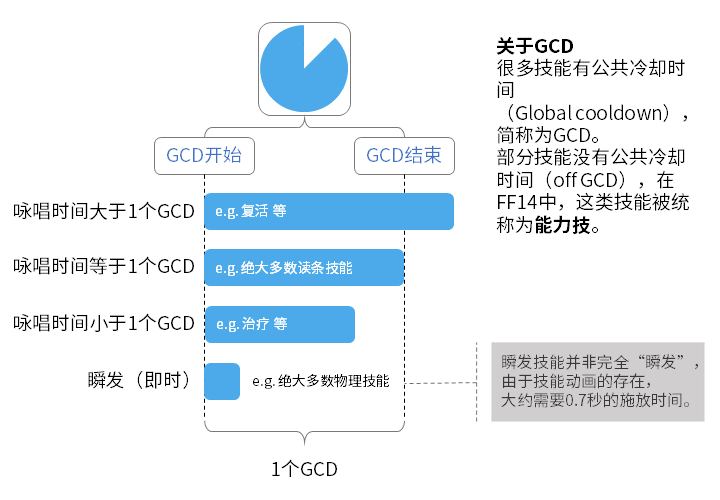
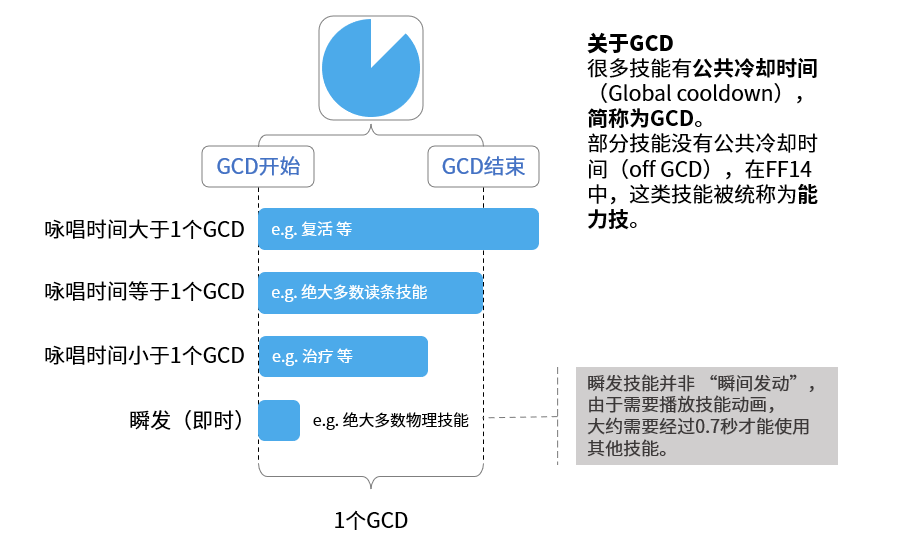
副本update

diff --git a/docs/topic/dd.md b/docs/topic/dd.md
@@ -4,13 +4,80 @@
 
 深层迷宫在低层可以为玩家的未满级职业练级，而高层迷宫则有相当高的难度，也会产出稀有的坐骑、宠物和外观。
 
-单刷死宫200层的成就称号死灵术士，是游戏里目前最稀有的称号，国服拥有这个称号的玩家屈指可数，加上国际服的玩家可能也只有十几人拥有。
+## 死者宫殿
 
-[死者宫殿官方介绍](http://act.ff.sdo.com/project/170420deepdungeon/index.html)
+完成17级主线任务<Quest name="消失在铜铃中的梦" type="main" />之后，在<Pos name="格里达尼亚新街" :x="12.0" :y="13.1" />接任务<Quest name="奇异地宫" type="plus" />，就可以开启死宫了。
 
-[单刷死宫攻略](https://bbs.nga.cn/read.php?tid=14509371)
+;;;.guide .cols2
+;;;.guide .col
+<img src="./dd.assets/tpd.jpg"/>
+;;;
 
-[天之御柱官方介绍](http://act.ff.sdo.com/project/170420deepdungeon2/index.html)
+;;;.guide .col .grow
+和<Pos name="黑衣森林南部林区" :x="25.2" :y="20.6" />的鬼哭队调查队长对话，就可以打开图示窗口进入死宫。
 
-[单刷天宫攻略](https://bbs.nga.cn/read.php?tid=16406640)
-<UnderConstruction />
+选择==挑战“死者宫殿”==就可以申请进入死宫，通常为了练级的玩家，可以选择匹配队进入；组好固定队伍（4人）或想要挑战单人死宫成就的，可以选择固定队进入。
+
+每名玩家只能保留2个死宫存档，如果2个存档均有游戏内容，则需要先通过==重置“攻略进度”==删除存档，才可以建立新挑战。
+;;;
+;;;
+
+死宫中有完全独立的等级和装备强度，玩家需要找到位于每层的==转移石冢==，通过击杀本层的小怪激活转移石冢，并前往下一层。
+
+每10层会有一个守层BOSS，完成守层BOSS后，会结算死宫外的职业经验，并进入存档层。在存档层可以选择退出死宫，或继续深入。在存档层退出死宫的玩家，可以在下次游戏时继续挑战。如果在非存档层退出、团灭，则会被视为挑战失败，无法获得任何经验。
+
+完成50层的玩家会回到黑衣森林南部林区，可以接到任务<Quest name="深渊地宫" type="plus" />，完成任务后就可以从51层开始挑战死宫。
+
+当玩家以固定队的方式进入死宫，并且在没有团灭记录的情况下通过100层，就可以继续挑战101~200层。
+
+在死宫中，玩家会遇到下列物品、机关：
+* 金宝箱：会开出名为魔陶器的特殊物品，按背包的快捷键（默认`I`）可以打开。全小队共享魔陶器，每种最多可以保留3个。每种魔陶器都有自己独特的功能，可在游戏内查看说明。随机队伍完成挑战退出死宫之后，魔陶器就会消失，固定队的魔陶器会一直保留。
+* 银宝箱：会随机强化玩家的装备，强化值从1~99。强化的成功率随着自身装备强化度的提升而降低，更深层的死宫对装备强化有一定要求，若不满足强化度的要求则有可能无法前往，此时需要返回低层找银宝箱进行强化。同时有的银宝箱还有可能是地雷，因此在战斗中开银宝箱是风险极大的行为。
+* 铜宝箱：通常会开出复活、回血药，但有极低的概率开出<item name="格尔莫拉陶器碎片" />，可以用来兑换坐骑、乐谱等。同时还有一定概率会变成**拟态怪**，若不能及时击杀，拟态怪就会随机给队伍成员施加<Status :id="1087" name="诅咒" />debuff（只能使用专用的魔陶器驱散），危险性较高。
+* 转移石冢：地图上为钥匙图标，用于前往下一层的通道。需要击杀一定数量的小怪才能激活，每层需要激活的小怪数量不等，通常在3~8只。==若队伍中有玩家掉线，需要等掉线玩家再次上线之后，才可以前往转移石冢，否则会被判定为团灭。==
+* 再生石冢：地图上为祭坛图标，使用再生石冢可以复活本层玩家。同样需要击杀一定数量的小怪才能激活。
+* 陷阱：平时无法看到，可以通过魔陶器显形（地面上的发光红色图腾）或解除。陷阱不会出现在房间边缘或过道中，在深层死宫中，贴墙走是主流的防止踩到陷阱的策略。
+* 宝藏：平时无法看到，可以通过魔陶器探索。宝藏可以拿到外面的鉴定师处鉴定，深层的<item name="金饰宝藏" />可以开出珍惜的坐骑等等。
+
+玩家可以通过消耗装备强度的方式获得<item name="聚魔柄" />，然后可以使用它兑换死宫中所使用的武器外观。
+
+> [死者宫殿官方介绍](http://act.ff.sdo.com/project/170420deepdungeon/index.html)
+>
+> [死者宫殿维基介绍](https://ff14.huijiwiki.com/wiki/%E6%AD%BB%E8%80%85%E5%AE%AB%E6%AE%BF)：含宝箱、陷阱、宝藏等内容的详细说明
+>
+> [死宫详细攻略](https://bbs.nga.cn/read.php?tid=14509371)：每一层小怪、BOSS的威胁程度、回避方法的详细介绍
+
+## 天之御柱
+
+通过死宫50层，并且完成63级主线任务<Quest name="片刻的风平浪静" type="main" />之后，在<Pos name="红玉海" :x="6.2" :y="11.7" />接任务<Quest name="深渊的天之御柱" type="plus" />，就可以开启天宫了。
+
+;;;.guide .cols2
+;;;.guide .col
+<img src="./dd.assets/hoh.jpg"/>
+;;;
+
+;;;.guide .col .grow
+和<Pos name="红玉海" :x="21.4" :y="9.2" />的九星对话，就可以打开图示窗口进入天宫。
+
+选择==挑战“天之御柱”==就可以申请进入天宫，通常为了练级的玩家，可以选择匹配队进入；组好固定队伍（4人）或想要挑战单人天宫成就的，可以选择固定队进入。
+
+每名玩家只能保留2个天宫存档，如果2个存档均有游戏内容，则需要先通过==重置“攻略进度”==删除存档，才可以建立新挑战。
+;;;
+;;;
+
+天宫和死宫的玩法类似，有独立的等级、装备强度。需要击杀一定数量的小怪激活转移灯笼，前往上一层。开银箱子强化装备，通过10层的BOSS结算经验存档。
+
+天宫完成30层后，会开启支线任务<Quest name="我等虽为凡夫" type="plus" />。之后可以选择从21层开始挑战天宫，没有团灭记录的固定队可以前往31~100层。
+
+天宫中会有一些与死宫不同的道具、机关：
+* 打开银宝箱时，会有一定概率获得==魔石==，魔石可以清空本层的所有普通小怪，黑色的奥丁魔石在BOSS层可以斩杀BOSS。
+* 天宫某些层会出现“大房间”，大房间并没有墙壁，但是会有多个转移灯笼，而其中只有一个是真的。使用魔陶器：隐身可以避免触发到假的转移灯笼，一旦触发了假的转移灯笼，会有概率触发陷阱。
+* 天宫某些地方会出现宠物形态的NPC，靠近NPC会获得5分钟的增强buff。每个NPC只能触发一次。
+
+玩家可以通过消耗装备强度的方式获得<item name="天之聚魔柄" />，然后可以使用它兑换天宫中所使用的武器外观。
+
+> [天之御柱官方介绍](http://act.ff.sdo.com/project/170420deepdungeon2/index.html)
+>
+> [天之御柱维基介绍](https://ff14.huijiwiki.com/wiki/%E5%A4%A9%E4%B9%8B%E5%BE%A1%E6%9F%B1)：含宝箱、陷阱、宝藏等内容的详细说明
+>
+> [天宫详细攻略](https://bbs.nga.cn/read.php?tid=16406640)：每一层小怪、BOSS的威胁程度、回避方法的详细介绍

diff --git a/docs/basic/levelup.md b/docs/basic/levelup.md
@@ -1,7 +1,7 @@
 # 练级指南
 
 新玩家的第一个职业一定主要是通过<img src="/images/icons/061412.png" class="no-zoom" />主线任务练级的，但是新人难免会发生等级不满足任务要求的情况，下面是一些练级（做主线期间）的注意事项：
-* 推荐每天上线先排上随机练级（默认快捷键`U`），一边排队一边做别的，打完了再酌情考虑要不要打其他随机，推荐尽可能多打。推荐优先打==随机练级==和==随机讨伐==，==随机团队==可选（需要做24人副本开启支线任务并完成任意2个24人副本才会开启），==随机主线==耗时极长但奖励极多，如果有较长游戏时间可以打一打，其他随机任务不推荐。
+* 推荐每天上线先参加随机练级（默认快捷键`U`），一边排着队一边做别的，打完了再酌情考虑要不要打其他随机，推荐尽可能多打。推荐优先打==练级==和==讨伐歼灭战==，==团队任务==可选（需要做24人副本开启支线任务并完成任意2个24人副本才会开启），==主线任务==耗时极长但奖励极多，如果有较长游戏时间可以打一打，其他随机任务不推荐。[排本功能介绍](/basic/dungeon.md#随机副本)。
 * 临危受命（FATE）在低等级不是最好的练级策略，但是高等级会有额外奖励（参见下表）；有一部分FATE属于特殊FATE（时长30分钟，有特殊的BGM），完成后会获得成就或兑换外观用的道具等等。
 * 讨伐笔记和行会令（每个职业第一次完成时）都会有额外奖励经验，对于高等级玩家来说这点经验就是毛毛雨，如果你只差一点点经验就升级，可以选择讨伐笔记或行会令。
 

diff --git a/docs/basic/battle.md b/docs/basic/battle.md
@@ -4,7 +4,24 @@
 
 ## 战斗基础
 
-玩家的技能被分为战技/魔法、能力两大类。战技/魔法被称为GCD技能，一旦使用，其他所有GCD技能会一起进入CD（按键变暗，并有旋转变亮特效），CD时间就是技能描述上的==复唱时间==（通常是2.5s，但是会随着玩家的技能速度/咏唱速度提升而降低）。而能力技又被称为oGCD技能，当玩家使用一个不需要咏唱的GCD技能之后，会有一个CD的时间无法使用其他GCD技能，但是此时却可以使用能力技。
+;;;.guide .cols2
+;;;.guide .col
+![](./battle.assets/gcd.gif) 
+
+GCD技能和能力技示意 ~~非正确循环，按键顺序请勿参考~~
+;;;
+
+;;;.guide .col .grow
+
+如图，当按下左边中间的技能时，其他技能依旧可用。而按下左下角的技能时，它右边的两排技能都一起进入冷却动画，无法使用。但左边中间和最上面一排的技能，却可以不受影响随时使用（它们也有各自的冷却时间）。
+
+因此下方的5个会一起冷却的技能就是GCD（Global cooldown）技能，在技能描述的分类中通常是“战技”或“魔法”，而左边中间和上排的技能则是oGCD技，在技能描述中的分类是“能力”。玩家会以==GCD技能==和==能力技==来称呼这两类技能。
+
+由于FF14的GCD时间非常长（没有任何加速时是2.5秒），因此永远让你的GCD技能在冷却中（也就是俗称的不浪费GCD），是从入门到毕业都要面对的难题。
+
+;;;
+;;;
+
 
 ;;;
 ;;;

diff --git a/docs/duty/36.md b/docs/duty/36.md
@@ -21,4 +21,4 @@
 如果打过以前的石卫塔或者其他什么塔，就应该对这部分比较熟练。有暴风雪的地方会对全团施加不断掉血的伤害，冰元精极易暴击建议开启减伤，<Role name="healer" />治疗注意抬血。
 
 ### BOSS 3狮身巨鹰
-场地上会有2~4块石头，这些石头非常重要，平时请不要站在石块附近，<Role name="tank" />T也要注意不要将**狮身巨鹰**面对石块(BOSS的正面顺劈会打烂石块)。当BOSS跳回场地中央读条==回转牢狱==时，<Role name="tank" /><Role name="healer" /><Role name="dps" />所有人立刻就近找石头躲避，否则会被吸入中间的龙卷风里并造成大量伤害。但BOSS的凛冬之风会摧毁石块，所以当石块被摧毁后，<Role name="tank" />T要尽快找到新石块附近。
+场地上会有2~4块石头，这些石头非常重要，平时请不要站在石块附近，<Role name="tank" />T也要注意不要将**狮身巨鹰**面对石块(BOSS的正面顺劈会打烂石块)。当BOSS跳回场地中央读条==回转牢狱==时，<Role name="tank" /><Role name="healer" /><Role name="dps" />所有人立刻就近找石头躲避，若实在来不及也可使用<Action name="亲疏自行" />/<Action name="沉稳咏唱" />，否则会被吸入中间的龙卷风里并造成大量伤害。但BOSS的凛冬之风会摧毁石块，所以当石块被摧毁后，<Role name="tank" />T要尽快找到新石块附近。

diff --git a/docs/duty/19.md b/docs/duty/19.md
@@ -22,4 +22,4 @@
 
 老三**哈利卡纳苏斯**，这个BOSS会召唤小怪，过一会后会把小怪吃掉，然后读条血雨。血雨的威力会根据被吃掉的小怪剩余血量而有不同威力。所以刷新小怪后，<Role name="tank" /><Role name="healer" /><Role name="dps" />所有人立刻转火小怪。第二波小怪有2只，BOSS是随机吃的，所以需要2只一起打。如果发现BOSS吃了一只半血以上的小怪，<Role name="healer" />治疗需要做好应急乃至灭团的准备。
 
-另外如果BOSS打的太快，可能会强制BOSS提前吃小怪（导致满血大AOE），所以DPS较快的团队注意收手。
+另外如果BOSS打的太快，可能会强制BOSS提前吃小怪（导致满血大AOE），所以DPS较快的团队注意收手。若没来得及停手，<Role name="tank" />T可以开启LB保护队友。

diff --git a/docs/basic/dungeon.md b/docs/basic/dungeon.md
@@ -2,7 +2,7 @@
 
 副本是MMORPG游戏的最大乐趣之一，只要保持礼貌和谦虚的态度，就可以收获非常多快乐。
 
-在菜单-任务情报-任务搜索器（默认快捷键`U`）可以打开任务搜索器，勾选自己想要参加的副本并点击下方的==参加==，就可以由系统自动匹配其他玩家。
+在菜单-任务情报-任务搜索器（默认快捷键`U`）可以打开任务搜索器，勾选自己想要参加的副本并点击下方的==参加== （最多可同时勾选5个指定副本），就可以由系统自动匹配其他玩家。
 
 在参加副本时，预习攻略是非常有礼貌的行为，本站准备了尽可能无剧透的简洁[副本攻略](/duty/)，可以放心阅读。如果想要挑战高难度副本，可以参考[挑战副本](/topic/raid.md)介绍了解。
 

diff --git a/docs/basic/core.md b/docs/basic/core.md
@@ -21,7 +21,7 @@ FF14最常见的盗号手段是撞库（[什么是撞库](https://www.zhihu.com/
 
 使用WeGame的玩家可以使用App扫码登录，或其他QQ账号保护措施。
 
-如果不方便使用手机APP登录，除了设置复杂的密码之外，还推荐使用独立密码（即不在其他任何地方使用过的唯一的密码）。不要将自己的账号密码交给他人。
+如果不方便使用手机APP登录，除了设置更为复杂的密码之外，也推荐使用独立密码（即不在其他任何地方使用过的唯一的密码，比如平时常用的密码是123456，那么ff14游戏的密码可以写成123456ff14）。**不要将自己的账号密码交给他人。**
 :::
 ## 主线剧情
 

diff --git a/docs/duty/5.md b/docs/duty/5.md
@@ -12,7 +12,7 @@
 
 ## BOSS 1 ~ BOSS 2
 
-路上会有很多花苞，如果不是排随机进来的，可以选择等花苞孵化成幼苗后击杀（经验值是直接杀花苞的10倍有余），否则可以直接把花苞扼杀在摇篮里。魔界花有十全大补喷，谁吃谁知道。
+路上会有很多花苞，可以直接把花苞扼杀在摇篮里。魔界花有十全大补喷，谁吃谁知道。
 
 ### BOSS 2 数币巨人
 
@@ -20,7 +20,7 @@
 
 ## BOSS 2 ~ BOSS 3
 
-路上好多魔界花和花骨朵。
+路上好多魔界花和花骨朵，击杀两朵大花开门。能不触发孵化的花骨朵可以无视。
 
 ### BOSS 3 守财夫人
 

diff --git a/docs/duty/13.md b/docs/duty/13.md
@@ -26,3 +26,5 @@ BOSS 2 没什么特别要注意的，出啥躲啥，躲好就过了
 ### BOSS 3 巴特拉尔
 
 **巴特拉尔**血量下降到一定程度时，会和场边的水晶连线并变为无敌，需要<Role name="dps" />DPS去打水晶，T没事也可以去，这时候由于BOSS无敌，你打BOSS也没用的。3个水晶都打爆之后，BOSS会点名队员脚下扔淤泥，躲开即可。<Role name="tank" />T记得调整BOSS的位置和面向，把BOSS的后背和侧面露给近战DPS。
+
+BOSS会无预警释放近战范围AOE，<Role name="healer" />治疗注意照顾近战血量，远程尽可能远离BOSS。

diff --git a/docs/duty/11.md b/docs/duty/11.md
@@ -11,7 +11,7 @@
 
 ## BOSS 1 ~ BOSS 2
 
-分叉较多，其中冰元精非常容易暴击，<Role name="healer" />治疗注意回复。
+分叉较多，有些岔路里会有巡逻怪，冰元精非常容易暴击，<Role name="healer" />治疗注意回复。
 
 ### BOSS 2 柯西切
 
